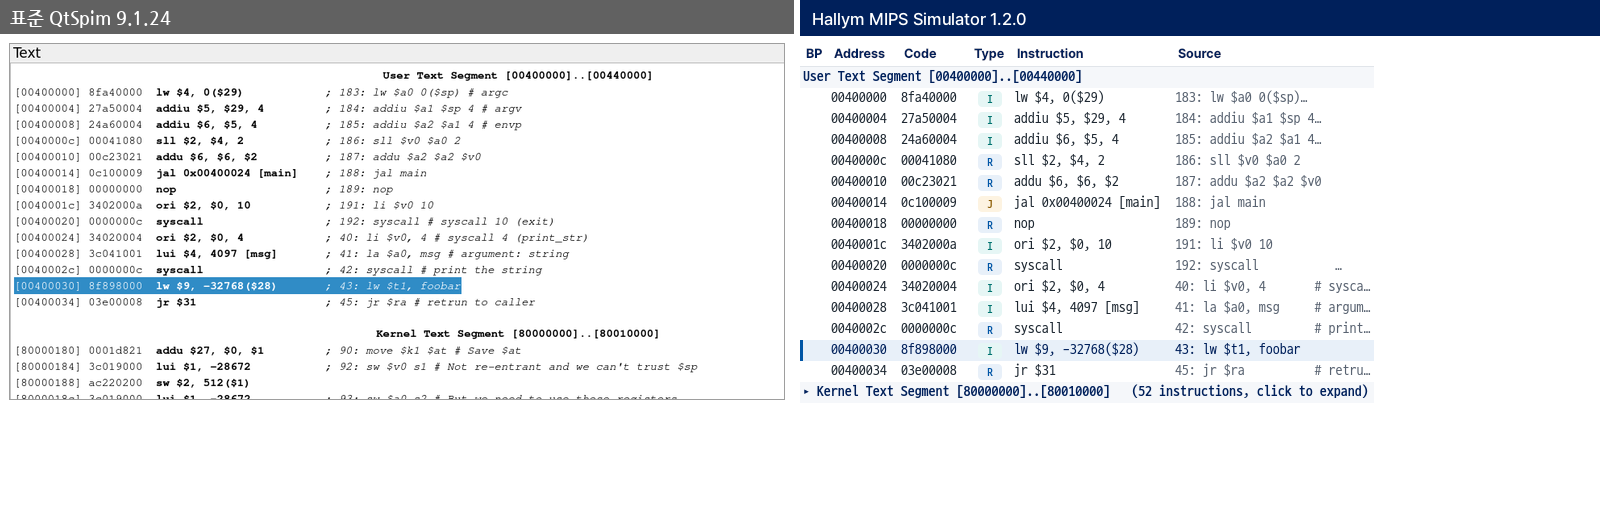
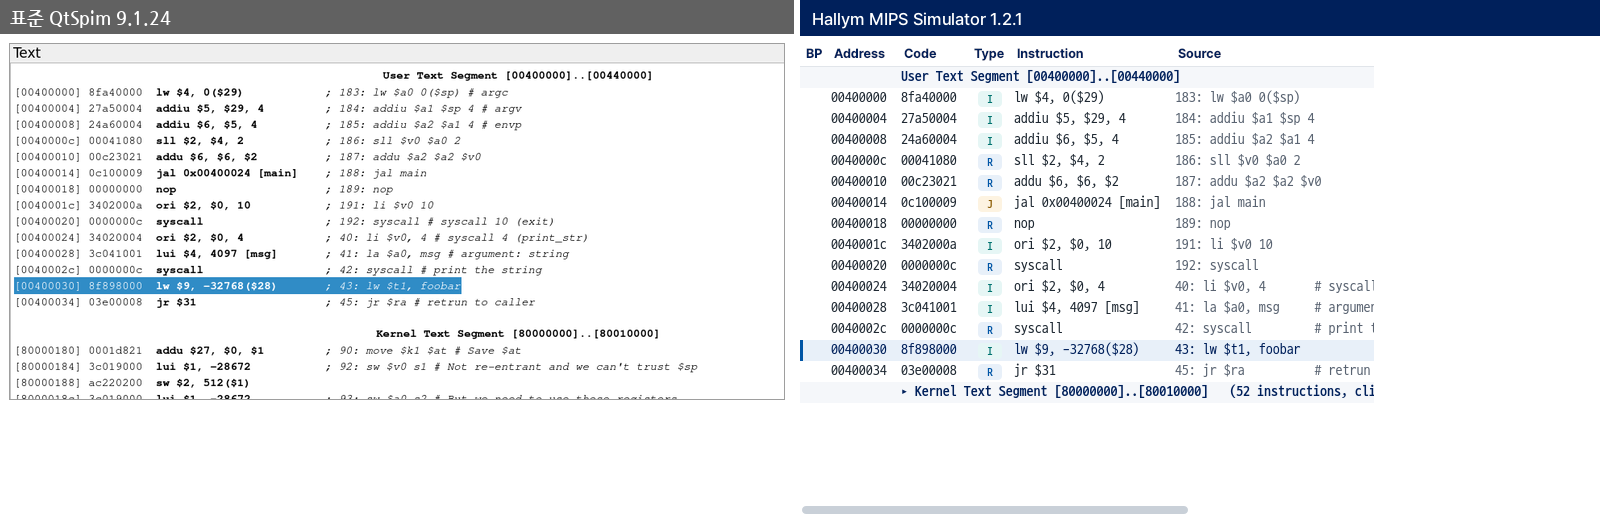
[H2] version 1.2.1
The horizontal scroll bars, the frozen Address and BP columns, the
start-up card's buttons and the one name for the tutorial.  Captures
regenerated at the new version.

Changed region(s): [[0.5, 0.9612, 0.75, 1.0], [0.5, 0.7442, 0.875, 0.7752], [0.5, 0.124, 0.75, 0.155]]

diff --git a/QtSpim/edu/edu_version.h b/QtSpim/edu/edu_version.h
@@ -19,7 +19,7 @@
 
 /* Version of this fork.  tools/package-windows.ps1 and the MSI read it from
    this line. */
-#define EDU_VERSION "1.2.0"
+#define EDU_VERSION "1.2.1"
 
 /* Product name shown to the user. */
 #define EDU_APP_NAME "Hallym MIPS Simulator"
